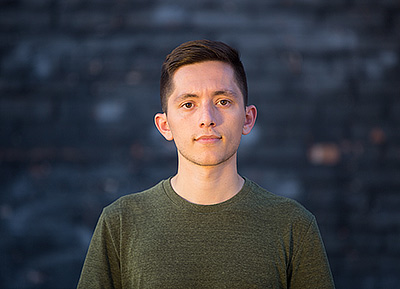
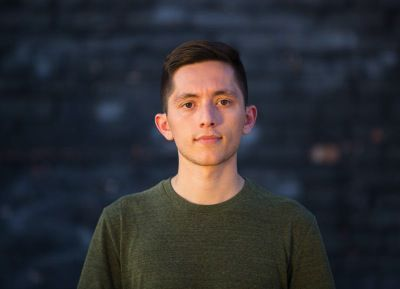
fix: bigger speaker pics, cleanup and tagline

diff --git a/app/styles/main.less b/app/styles/main.less
@@ -275,7 +275,7 @@ section {
 
 #speakers {
     .portfolio-item {
-        margin: 0 0 15px;
+        margin: 0 0 60px;
         right: 0;
         .portfolio-link {
             display: block;
